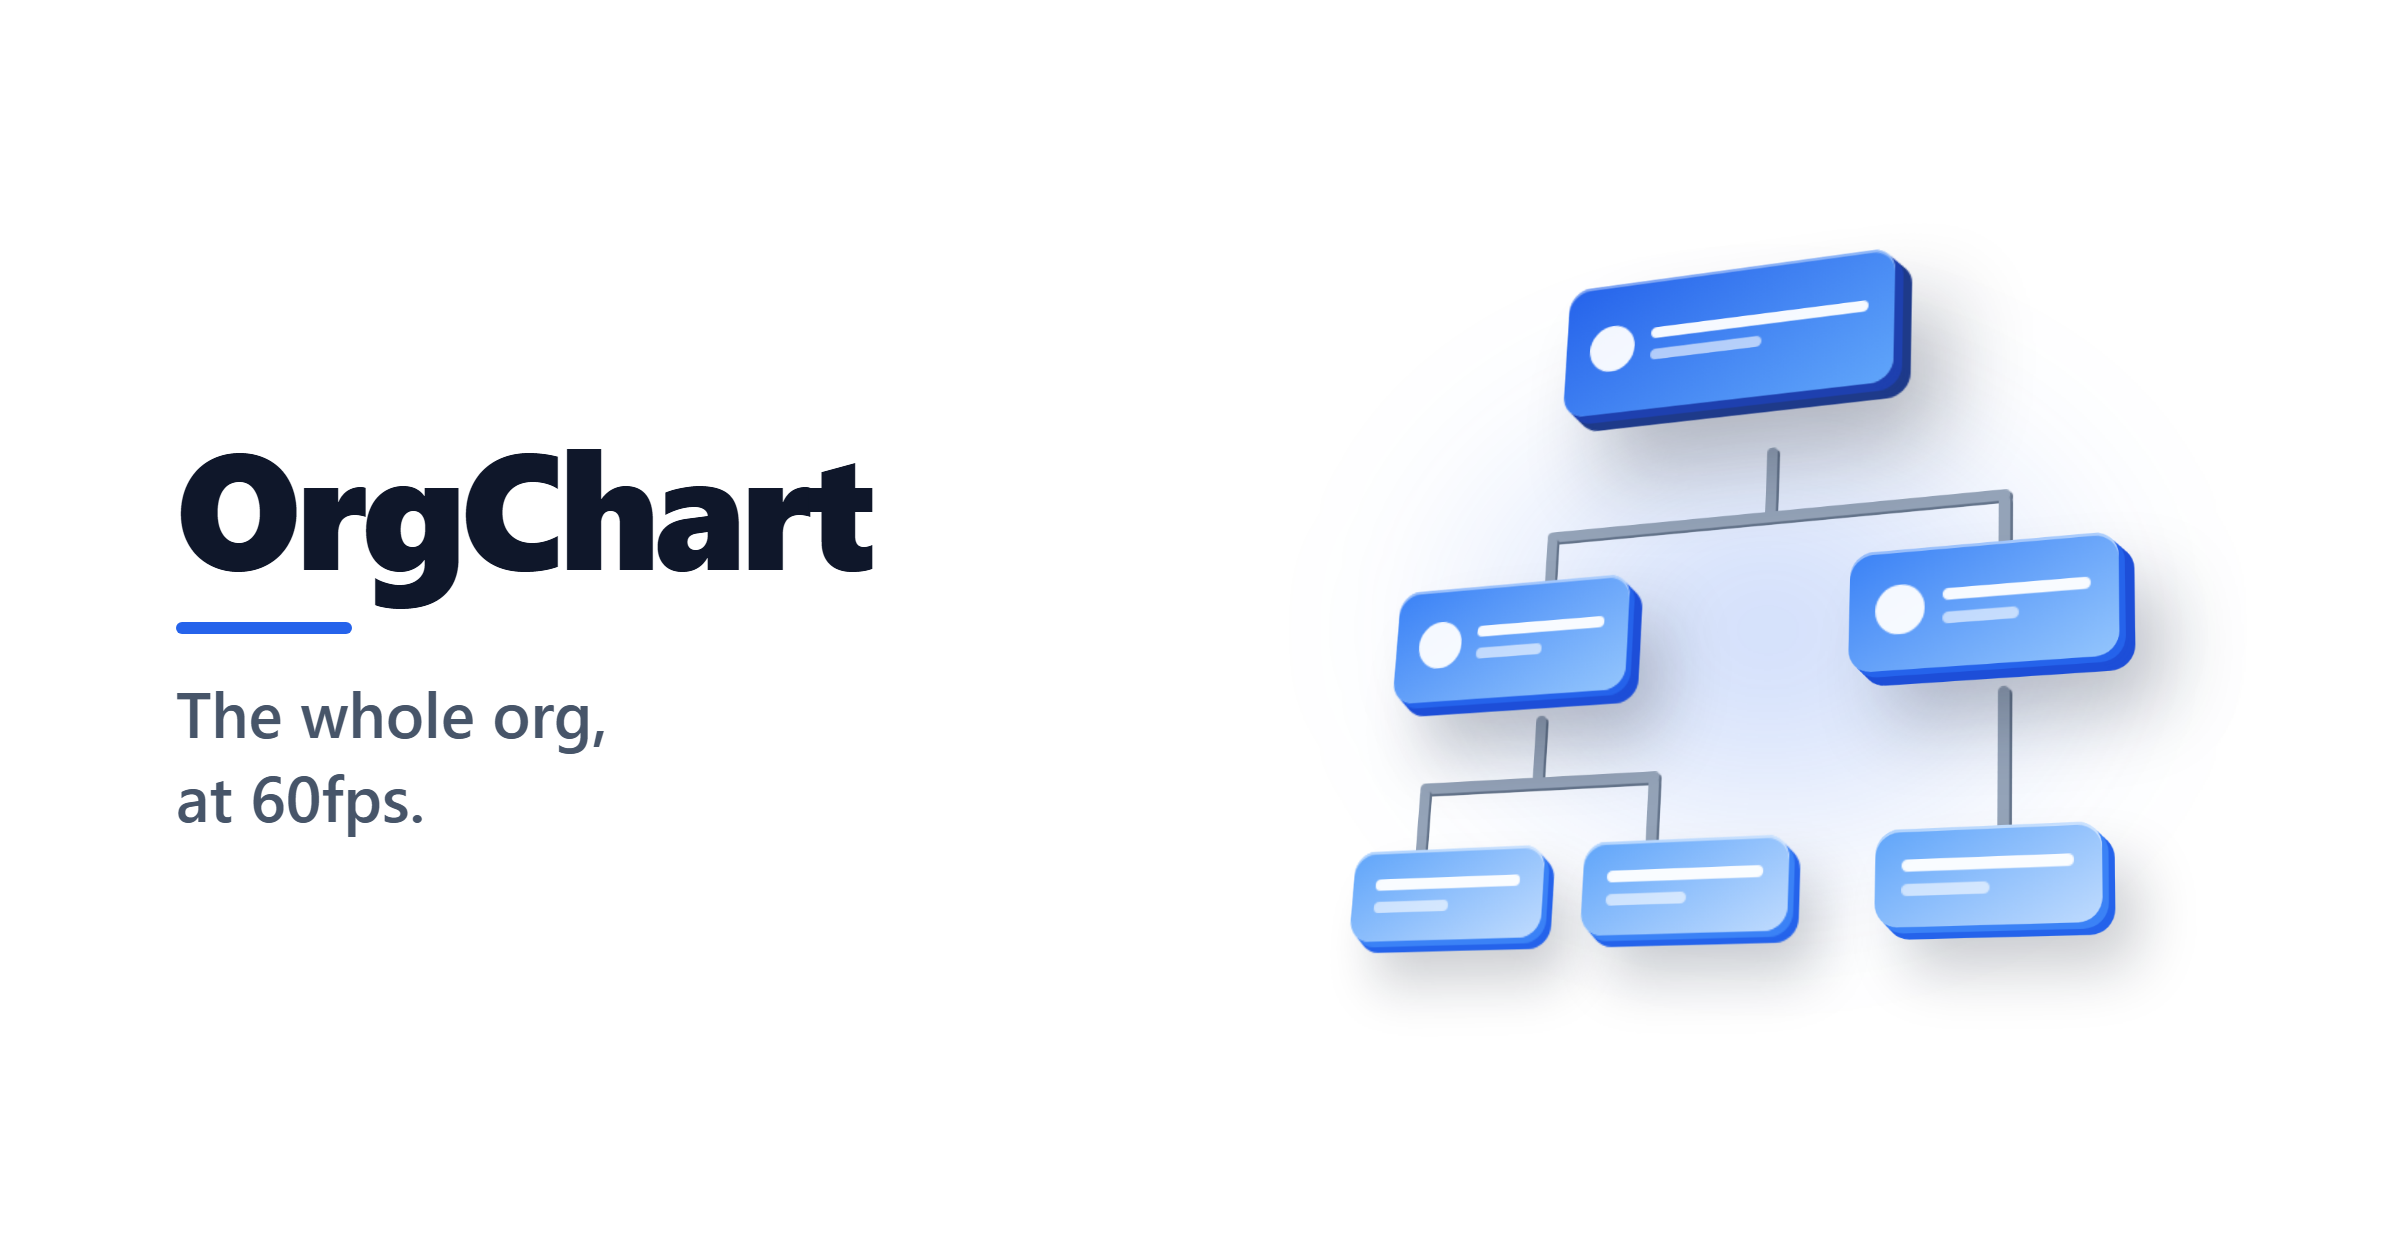
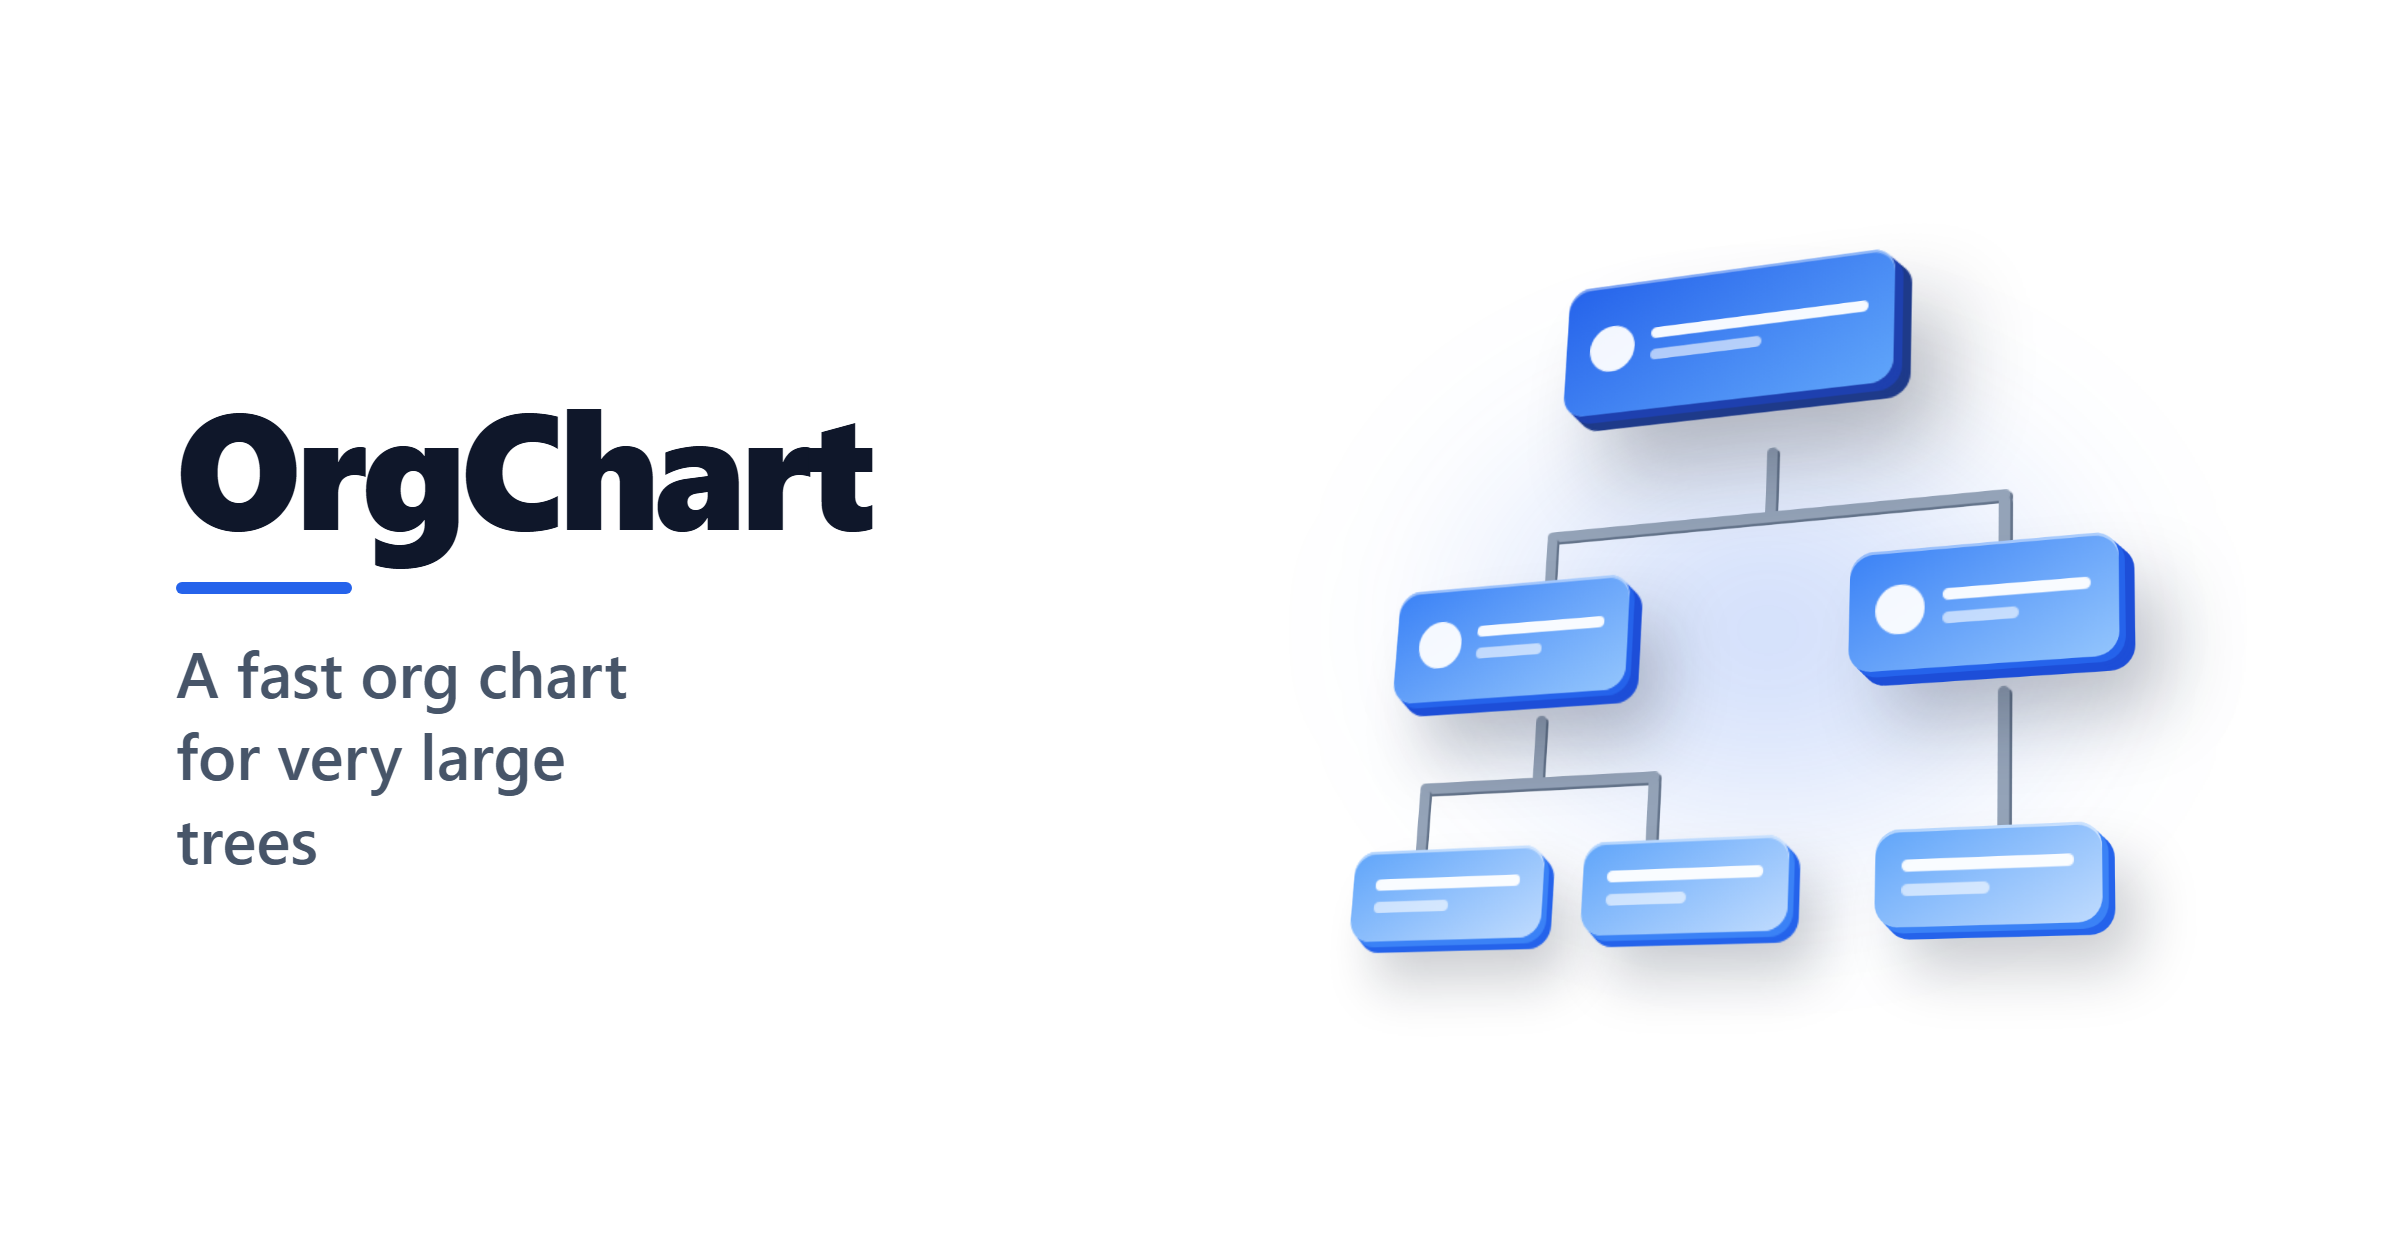
docs: rewrite the hero and features in the reference voice
Modelled on vuefinder.ozdemir.be, which the owner pointed at: the headline
names the category rather than making a claim, the tagline is one short
sentence of adjectives, and each feature card leads with an emoji and a plain
title, then packs the description with concrete capabilities.

So: "Canvas Org Chart" over "A fast, framework-agnostic org chart for very
large trees", and three cards — built for large trees, your components on
top, developer-friendly — each listing what is actually there rather than
explaining a mechanism. Buttons match too: Get Started / Reference / View on
GitHub.

The previous attempts led with a claim ("The whole org, at 60fps") and spent
the tagline on an em-dashed run-on. Section headings follow the same voice:
"Quick Start" and "One Thing to Know".

Changed region(s): [[0.0625, 0.3095, 0.375, 0.7119]]

diff --git a/packages/docs/index.md b/packages/docs/index.md
@@ -3,32 +3,32 @@ layout: home
 
 hero:
   name: OrgChart
-  text: The whole org, at 60fps.
-  tagline: Fifty thousand people on a canvas in a Web Worker — with your own Vue, React or plain-DOM cards mounted only where they are big enough to read.
+  text: Canvas Org Chart
+  tagline: A fast, framework-agnostic org chart for very large trees
   image:
     src: /hero.png
     alt: An org chart of six cards in perspective, floating above their connectors
   actions:
     - theme: brand
-      text: Get started
+      text: Get Started
       link: /guide/getting-started
     - theme: alt
-      text: API
+      text: Reference
       link: /api/options
     - theme: alt
-      text: GitHub
+      text: View on GitHub
       link: https://github.com/n1crack/orgchart
 
 features:
-  - title: 50,000 nodes, about 50 elements
-    details: A node gets a DOM element once it is on screen and zoomed in far enough to read — never before. The rest is canvas, so the chart can be as big as the company is.
-  - title: Bring your own card
-    details: A Vue slot, a React render prop, or a plain function that gets an element. One DOM-free engine under all three, and a fourth binding is an afternoon's work.
-  - title: Expand without losing your place
-    details: Open a node and it holds its exact spot on screen, to the pixel, while the layout reflows around it. The camera keeps its zoom; the minimap keeps its frame.
+  - title: ⚡ Built for Large Trees
+    details: Renders 5,000–50,000 nodes at 60fps. Layout and drawing run on a canvas inside a Web Worker, so the main thread stays free. No DOM per node, ever.
+  - title: 🧩 Your Components on Top
+    details: A Vue slot, a React render prop, or plain DOM. Real components mount only for the nodes on screen and zoomed in far enough to read — about fifty at a time, pooled and reused.
+  - title: 🛠️ Developer-Friendly
+    details: TypeScript throughout, four orientations, RTL, minimap, SVG and PNG export, full keyboard navigation and a screen-reader tree. ESM only, with Vue 3 and React adapters.
 ---
 
-## Draw one
+## Quick Start
 
 ::: tabs key:stack
 
@@ -107,7 +107,7 @@ export function Chart() {
 Pan, zoom, click, keyboard navigation. `data` is flat — `{ id, parentId?, ...yours }` —
 so the array from your API is usually already the right shape.
 
-## The catch
+## One Thing to Know
 
 `nodeSize` is declared, not measured. Layout runs in a Web Worker, where there
 is no element to call `getBoundingClientRect()` on — that is what buys the